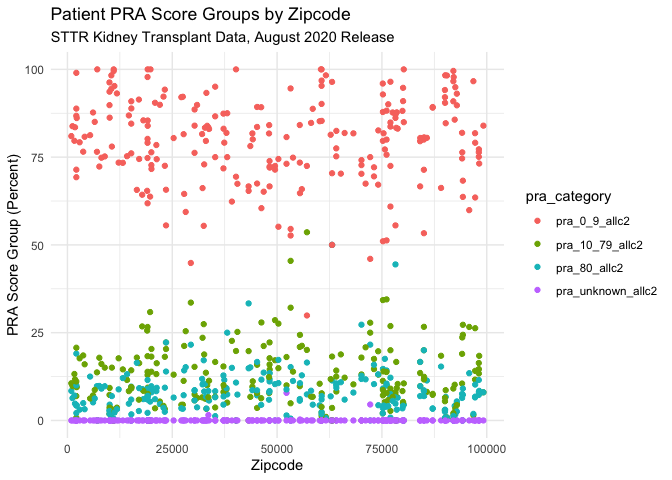
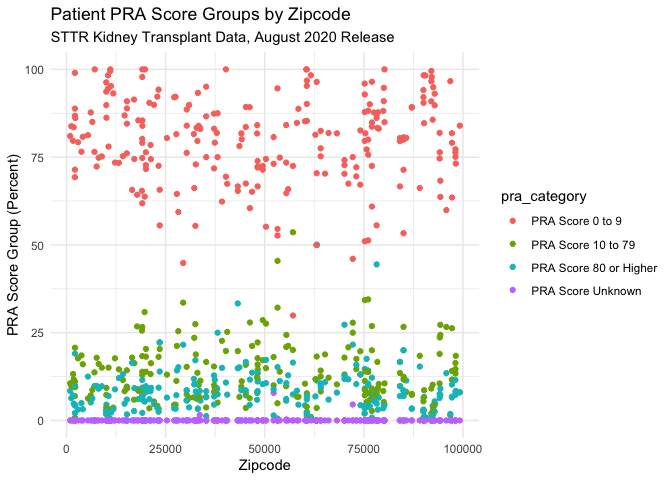
Updated plot lables.

diff --git a/code/KidneyDataMS.md b/code/KidneyDataMS.md
@@ -620,7 +620,7 @@ plot = df_demographics_pivot %>% ggplot(aes(x=zipcode, y =race_category_percent,
     title = "Patient Demographics by Zipcode",subtitle = "STTR Kidney Transplant Data, August 2020 Release",
     x = "Zipcode",
     y = "Race (Percent)"
-  ) + theme_minimal()
+  ) + theme_minimal() + scale_color_hue(labels = c("African American", "Asian", "Hispanic or Latino", "Other", "Unknown", "White"))
 plot
 ```
 
@@ -637,14 +637,14 @@ df_age_pivot =
     df_age, 
     age_2_11_allc2:age_70_allc2,
     names_to = "age_category", 
-    values_to = "age_category_percent") %>% mutate (age_category_percent = as.numeric(age_category_percent)) %>% mutate(age_category = factor(age_category, levels =c("age_2_allc2","age_2_11_allc2", "age_12_17_allc2", "age_18_34_allc2", "age_35_49_allc2", "age_50_64_allc2", "age_65_79_allc2", "age_70_allc2"))) %>% drop_na()
+    values_to = "age_category_percent") %>% mutate (age_category_percent = as.numeric(age_category_percent)) %>% mutate(age_category = factor(age_category, levels =c("age_2_allc2","age_2_11_allc2", "age_12_17_allc2", "age_18_34_allc2", "age_35_49_allc2", "age_50_64_allc2", "age_65_69_allc2", "age_70_allc2"))) %>% drop_na()
 #view(df_age_pivot)
 plot = df_age_pivot %>% ggplot(aes(x=zipcode, y =age_category_percent, color = age_category)) + geom_point() + 
   labs(
     title = "Patient Age Groups by Zipcode", subtitle = "STTR Kidney Transplant Data, August 2020 Release",
     x = "Zipcode",
     y = "Age Group (Percent)"
-  ) + theme_minimal()
+  ) + theme_minimal()  + scale_color_hue(labels = c("Less Than 2 Years", "2 to 11 Years", "12 to 17 Years", "18 to 34 Years", "35 to 49 Years", "50 to 64 Years", "64 to 69 Years", "More Than 70 Years"))
 plot
 ```
 
@@ -669,7 +669,7 @@ plot = df_gender_pivot %>% ggplot(aes(x=zipcode, y =gender_category_percent, col
     title = "Patient Gender Groups by Zipcode", subtitle = "STTR Kidney Transplant Data, August 2020 Release",
     x = "Zipcode",
     y = "Gender Group (Percent)"
-  ) + theme_minimal()
+  ) + theme_minimal() + scale_color_hue(labels = c("Female", "Male"))
 plot
 ```
 
@@ -695,7 +695,7 @@ plot = df_comorbidities_pivot %>% ggplot(aes(x=zipcode, y =comorbidity_category_
     title = "Patient Comorbidity Groups by Zipcode", subtitle = "STTR Kidney Transplant Data, August 2020 Release",
     x = "Zipcode",
     y = "Comorbidity Group (Percent)"
-  ) + theme_minimal()
+  ) + theme_minimal() + scale_color_hue(labels = c("Congenital, Familial or Metabolic", "Diabetes", "Golmerular Disease", "Hypertensive Nephrosclerosis", "Neoplasms", "Polycystic Kidneys", "No Prior Transplant", "Prior Transplant Unknown", "Prior Transplant", "Missing Primary Disease", "Other Primary Disease", "Renovascular or Vascular Disease", "Retransplant Graft Failure", "Tubular and Interstitial Diseases"))
 plot
 ```
 
@@ -720,7 +720,7 @@ plot = df_blood_type_pivot %>% ggplot(aes(x=zipcode, y =blood_type_category_perc
     title = "Patient Blood Type Groups by Zipcode", subtitle = "STTR Kidney Transplant Data, August 2020 Release",
     x = "Zipcode",
     y = "Blood Type Group (Percent)"
-  ) + theme_minimal()
+  ) + theme_minimal() + scale_color_hue(labels = c("Blood Type A", "Blood Type AB", "Blood Type B", "Blood Type O", "Blood Type Unknown"))
 plot
 ```
 
@@ -747,7 +747,7 @@ plot = df_pra_pivot %>% ggplot(aes(x=zipcode, y =pra_category_percent, color = p
     title = "Patient PRA Score Groups by Zipcode", subtitle = "STTR Kidney Transplant Data, August 2020 Release",
     x = "Zipcode",
     y = "PRA Score Group (Percent)"
-  ) + theme_minimal()
+  ) + theme_minimal() + scale_color_hue(labels = c("PRA Score 0 to 9", "PRA Score 10 to 79", "PRA Score 80 or Higher", "PRA Score Unknown"))
 plot
 ```
 
@@ -759,7 +759,7 @@ to investigate for correlations.
 df_pra_comorbid = merge(df_pra_pivot, df_comorbidities_pivot)
 #view(df_pra_comorbid)
 plot = df_pra_comorbid %>% ggplot(aes(x=comorbidity_category_percent, y =pra_category_percent, color =pra_category)) + geom_point() + labs(
-    title = "PRA Scores vs. Comorbidities", x ="Comorbidities (Percent)",subtitle = "STTR Kidney Transplant Data, August 2020 Release", y = "PRA Score (Percent)") + theme_minimal() + facet_wrap(~comorbidity_category)
+    title = "PRA Scores vs. Comorbidities", x ="Comorbidities (Percent)",subtitle = "STTR Kidney Transplant Data, August 2020 Release", y = "PRA Score (Percent)") + theme_minimal() + scale_color_hue(labels = c("PRA Score 0 to 9", "PRA Score 10 to 79", "PRA Score 80 or Higher", "PRA Score Unknown")) + facet_wrap(~comorbidity_category)
 plot
 ```
 
@@ -779,7 +779,7 @@ to investigate for correlations.
 df_pra_age = merge(df_pra_pivot, df_age_pivot)
 #view(df_pra_age)
 plot = df_pra_age %>% ggplot(aes(x=age_category_percent, y =pra_category_percent, color =pra_category)) + geom_point() + facet_wrap(~age_category) + labs(
-    title = "PRA Scores vs. Age Groups", subtitle = "STTR Kidney Transplant Data, August 2020 Release",x ="Age Groups (Percent)", y = "PRA Score (Percent)") + theme_minimal() 
+    title = "PRA Scores vs. Age Groups", subtitle = "STTR Kidney Transplant Data, August 2020 Release",x ="Age Groups (Percent)", y = "PRA Score (Percent)") + theme_minimal() + scale_color_hue(labels = c("PRA Score 0 to 9", "PRA Score 10 to 79", "PRA Score 80 or Higher", "PRA Score Unknown"))
 plot
 ```
 
@@ -798,7 +798,7 @@ investigate for correlations.
 df_pra_gender = merge(df_pra_pivot, df_gender_pivot)
 #view(df_pra_gender)
 plot = df_pra_gender %>% ggplot(aes(x=gender_category_percent, y =pra_category_percent, color =pra_category)) + geom_point() + facet_wrap(~gender_category) + labs(
-    title = "PRA Scores vs. Gender Groups", subtitle = "STTR Kidney Transplant Data, August 2020 Release", x ="Gender Groups (Percent)", y = "PRA Score (Percent)") + theme_minimal()
+    title = "PRA Scores vs. Gender Groups", subtitle = "STTR Kidney Transplant Data, August 2020 Release", x ="Gender Groups (Percent)", y = "PRA Score (Percent)") + theme_minimal() + scale_color_hue(labels = c("PRA Score 0 to 9", "PRA Score 10 to 79", "PRA Score 80 or Higher", "PRA Score Unknown"))
 plot
 ```
 
@@ -817,7 +817,7 @@ plots to investigate for correlations.
 df_pra_demographics = merge(df_pra_pivot, df_demographics_pivot)
 #view(df_pra_demographics)
 plot = df_pra_demographics %>% ggplot(aes(x=race_category_percent, y =pra_category_percent, color =pra_category)) + geom_point() + facet_wrap(~race_category) + labs(
-    title = "PRA Scores vs. Race", subtitle = "STTR Kidney Transplant Data, August 2020 Release", x ="Race (Percent)", y = "PRA Score (Percent)") + theme_minimal()
+    title = "PRA Scores vs. Race", subtitle = "STTR Kidney Transplant Data, August 2020 Release", x ="Race (Percent)", y = "PRA Score (Percent)") + theme_minimal() + scale_color_hue(labels = c("PRA Score 0 to 9", "PRA Score 10 to 79", "PRA Score 80 or Higher", "PRA Score Unknown"))
 plot
 ```
 
@@ -836,7 +836,7 @@ plots to investigate for correlations.
 df_pra_blood_type = merge(df_pra_pivot, df_blood_type_pivot)
 #view(df_pra_blood_type)
 plot = df_pra_blood_type %>% ggplot(aes(x=blood_type_category_percent, y =pra_category_percent, color =pra_category)) + geom_point() + facet_wrap(~blood_type_category)+ labs(
-    title = "PRA Scores vs. Blood Type", subtitle = "STTR Kidney Transplant Data, August 2020 Release", x ="Blood Type (Percent)", y = "PRA Score (Percent)") + theme_minimal()
+    title = "PRA Scores vs. Blood Type", subtitle = "STTR Kidney Transplant Data, August 2020 Release", x ="Blood Type (Percent)", y = "PRA Score (Percent)") + theme_minimal() + scale_color_hue(labels = c("PRA Score 0 to 9", "PRA Score 10 to 79", "PRA Score 80 or Higher", "PRA Score Unknown"))
 plot
 ```
 
